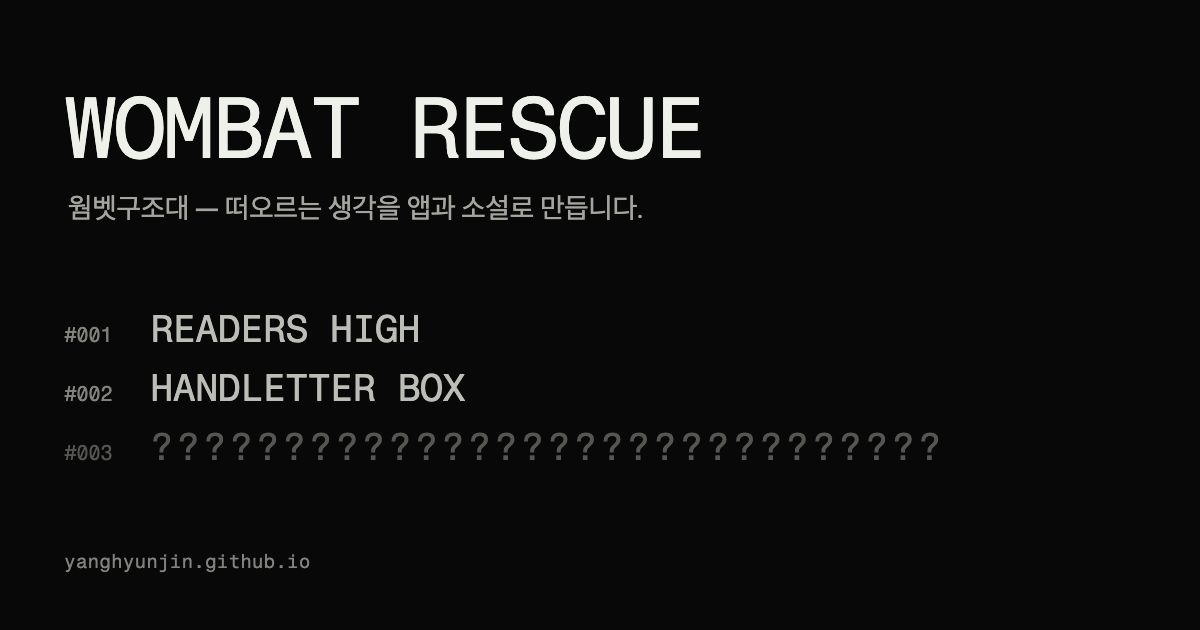
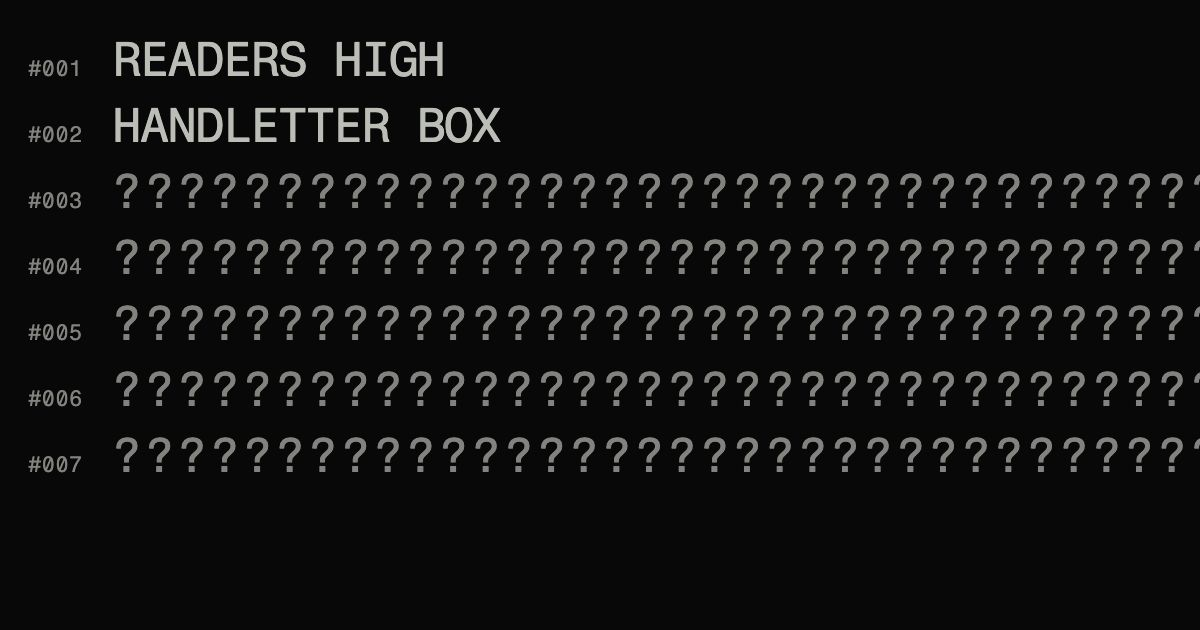
Use minimal project index for social preview

diff --git a/index.html b/index.html
@@ -11,15 +11,15 @@
   <meta property="og:type" content="website">
   <meta property="og:url" content="https://yanghyunjin.github.io/">
   <meta property="og:locale" content="ko_KR">
-  <meta property="og:image" content="https://yanghyunjin.github.io/assets/social-card-20261022.jpg">
+  <meta property="og:image" content="https://yanghyunjin.github.io/assets/social-card-index-20261022.jpg">
   <meta property="og:image:width" content="1200">
   <meta property="og:image:height" content="630">
   <meta property="og:image:type" content="image/jpeg">
-  <meta property="og:image:alt" content="검은 배경의 WOMBAT RESCUE 로고와 리더스 하이·손편지함 프로젝트 목록">
+  <meta property="og:image:alt" content="검은 배경에 두 프로젝트 이름과 다섯 줄의 물음표가 나열된 화면">
   <meta name="twitter:card" content="summary_large_image">
   <meta name="twitter:title" content="웜벳구조대">
   <meta name="twitter:description" content="떠오르는 생각을 앱과 소설로 만듭니다.">
-  <meta name="twitter:image" content="https://yanghyunjin.github.io/assets/social-card-20261022.jpg">
+  <meta name="twitter:image" content="https://yanghyunjin.github.io/assets/social-card-index-20261022.jpg">
   <link rel="icon" href="assets/favicon.svg" type="image/svg+xml">
   <link rel="stylesheet" href="styles.css">
 </head>
